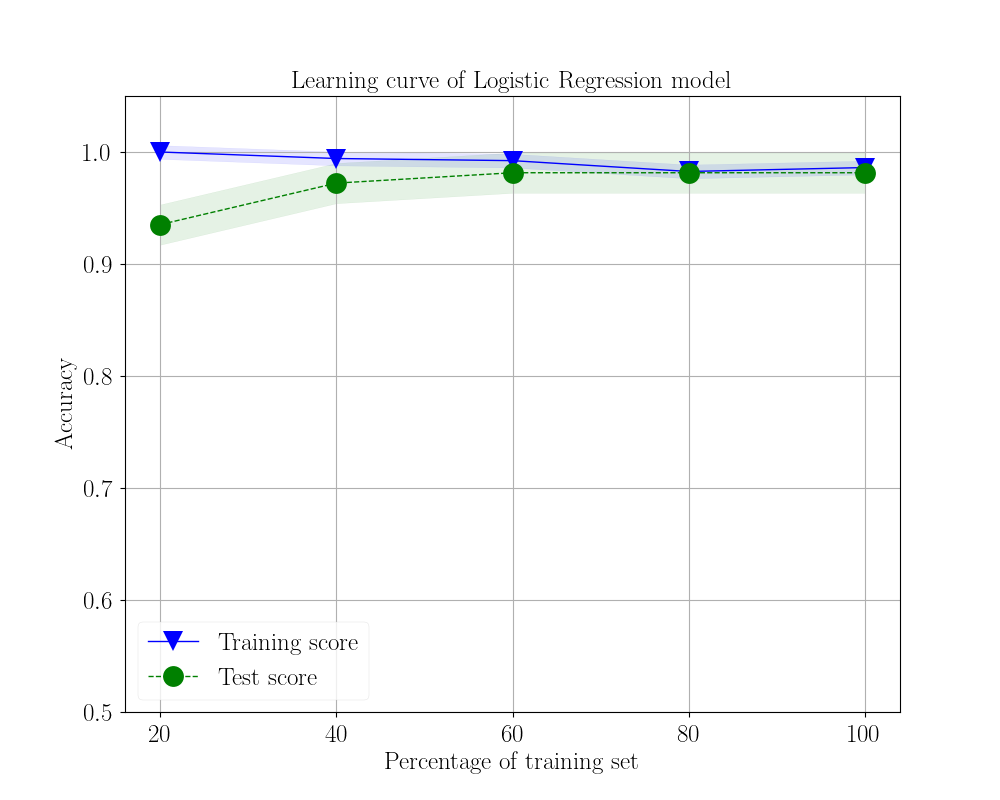
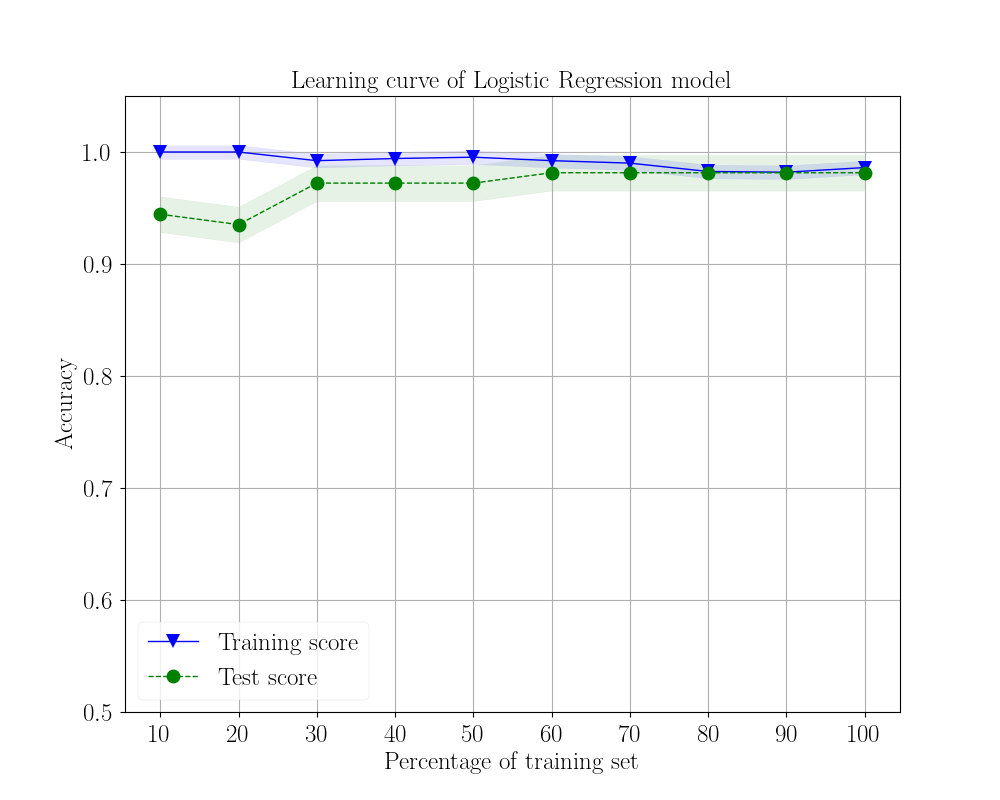
Update :: Modification @ Add interpretation codes of LR

diff --git a/src/metrics.py b/src/metrics.py
@@ -139,7 +139,7 @@ def accuracy_curve(accuracies):
 def learning_curve_lr(X_train, y_train, X_test, y_test, learning_rate, max_iter):
     train_score = []
     test_score = []
-    size_set = 5
+    size_set = 10
     for i in range(1, size_set + 1):
         # Get the training data
         X_train_ = X_train[:int(i * X_train.shape[0] / size_set)]
@@ -152,10 +152,10 @@ def learning_curve_lr(X_train, y_train, X_test, y_test, learning_rate, max_iter)
         test_score.append(accuracy(y_test, model.predict(X_test)))
     fig, ax = plt.subplots(figsize=(10, 8))
     plt.title('Learning curve of Logistic Regression model')
-    plt.plot(train_score, label='Training score', linewidth=1, color='blue', marker='v', markersize=15)
+    plt.plot(train_score, label='Training score', linewidth=1, color='blue', marker='v', markersize=10)
     plt.fill_between(range(len(train_score)), np.array(train_score) - np.std(train_score),
                      np.array(train_score) + np.std(train_score), alpha=0.1, color='blue')
-    plt.plot(test_score, label='Test score', linewidth=1, color='green', marker='o', linestyle='--', markersize=15)
+    plt.plot(test_score, label='Test score', linewidth=1, color='green', marker='o', linestyle='--', markersize=10)
     plt.fill_between(range(len(test_score)), np.array(test_score) - np.std(test_score),
                      np.array(test_score) + np.std(test_score), alpha=0.1, color='green')
     plt.xlabel('Percentage of training set')

diff --git a/src/main.py b/src/main.py
@@ -123,7 +123,6 @@ for i in misclassified.index:
     exp.show_in_notebook(show_table=True, show_all=True)
     exp.save_to_file('logistic_missed_predict_investigate/' + str(i) + '.html')
 
-# In the same plot, plot the probability of being malignant or benign for each feature
 fig, ax = plt.subplots(1, 2, figsize=(20, 10))
 ax[0].set_title('Probability of being Benign')
 ax[0].scatter(X_test[y_pred == 0]['smoothness_mean_log'], model.predict_proba(X_test[y_pred == 0])[:, 0], marker='o',
@@ -146,7 +145,5 @@ ax[1].scatter(X_test[y_pred != y_test]['smoothness_mean_log'], model.predict_pro
 ax[1].set_xlabel('Log Scale of Smoothness Mean')
 ax[1].set_ylabel('Probability of being Malignant')
 ax[1].legend()
-# Save the plot to src/output_plots
 plt.savefig('output_plots/LR_probability.png')
 plt.show()
-
